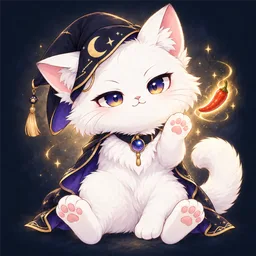
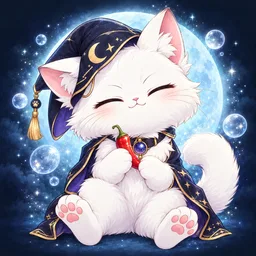
fix(neo): 순한맛 영냥이를 달빛 청록으로 다시 그려 기본맛과 구별
88px 카드에서 순한맛·기본맛이 둘 다 금빛 배경이라 고추 개수로만 갈렸다.
순한맛은 원본 hero-800 을 참조로 다시 생성해 빛을 차가운 달빛 청록으로,
표정을 감은 눈 웃음으로 바꿨다. 기본맛(금)·매운맛(적)은 그대로다.
귀 2개를 원본 크기로 세어 확인했다.

diff --git a/public/assets/yeongnyangi/intensity/README.md b/public/assets/yeongnyangi/intensity/README.md
@@ -4,8 +4,8 @@
 
 | 파일 | 강도 id | 제작 |
 |---|---|---|
-| soft.webp | soft(순한맛) | 2026-10-30 Codex CLI 내장 image_gen(gpt-image-2)으로 `original/hero-800.webp`를 참조로 넘겨 1회 생성한 1024×1024 원본을 sharp로 WebP 변환(품질 82). 부드럽게 웃으며 앞발을 든 영냥이, 고추 1개. |
-| standard.webp | standard(기본맛) | 같은 방식. 집중한 눈빛, 별 지팡이, 고추 2개, 금빛 불티. |
+| soft.webp | soft(순한맛) | 2026-10-30 Codex CLI 내장 image_gen(gpt-image-2)으로 `original/hero-800.webp`를 참조로 넘겨 다시 생성한 원본을 sharp로 256×256 WebP 변환(품질 82). 금빛인 기본맛과 작은 크기에서 갈리도록 빛을 차가운 달빛 청록으로 바꿨다. 눈을 감고 웃으며 두 앞발로 고추 1개를 든 영냥이, 달 원반과 물방울. |
+| standard.webp | standard(기본맛) | 2026-10-30 같은 참조로 1회 생성한 1024×1024 원본을 같은 방식으로 변환. 집중한 눈빛, 별 지팡이, 고추 2개, 금빛 불티. |
 | hot.webp | roar(매운맛) | 같은 방식. 볼이 달아오른 화끈한 표정, 지팡이에서 나오는 불꽃 소용돌이, 고추 3개. 송곳니·위협 표정 없음. |
 
 규칙: 글자·로고·사람이 들어간 이미지는 넣지 않는다. 귀 2개를 원본 크기로 세어 검수했다. 원본 PNG는 저장소에 두지 않는다.
